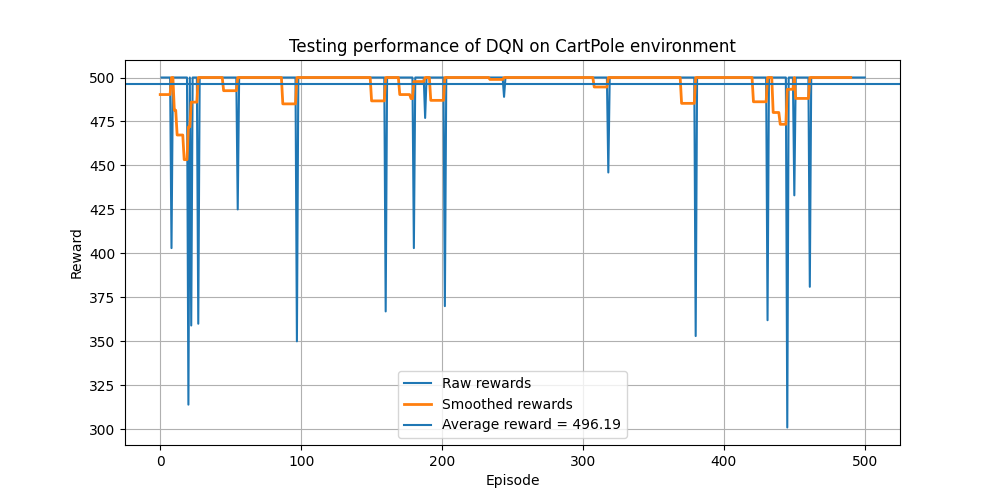
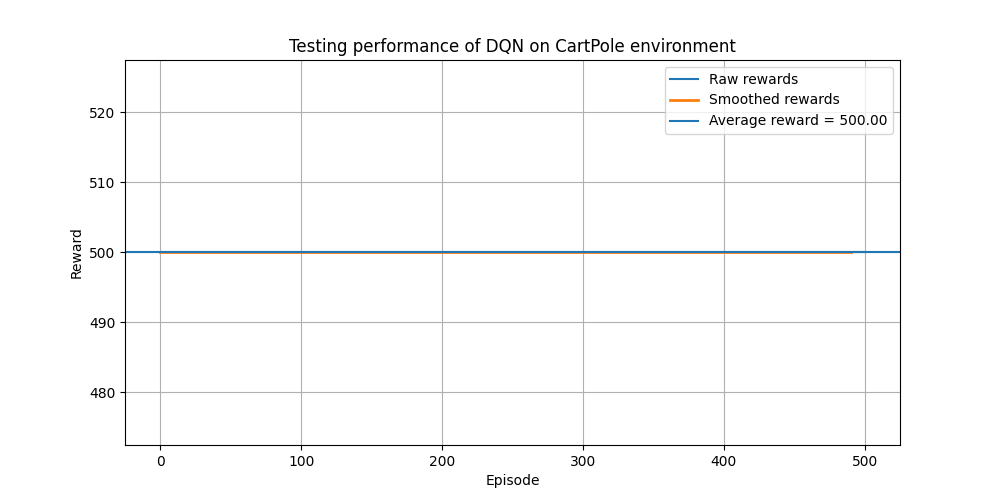
retrained dqn with optuna after fixing the seed in the DQN instantiation

diff --git a/train.py b/train.py
@@ -21,7 +21,7 @@ def train_model(config_file="configs/config.yaml", model_file="dqn_cartpole.zip"
         config = yaml.safe_load(file)
         cartpole_config = config['CartPole-v1']
 
-    # Create environment with logging
+    # Create environment
     env = gym.make("CartPole-v1")
     env.reset(seed=SEED)
 

diff --git a/train_optuna.py b/train_optuna.py
@@ -66,6 +66,7 @@ def objective(trial, cartpole_config, model_file="dqn_cartpole_optuna.zip"):
         exploration_final_eps=exploration_final_eps,
         verbose=0,
         policy_kwargs=eval(cartpole_config['policy_kwargs']),
+        seed=42,
         tensorboard_log="./dqn_logs/optuna/"
         )
 
